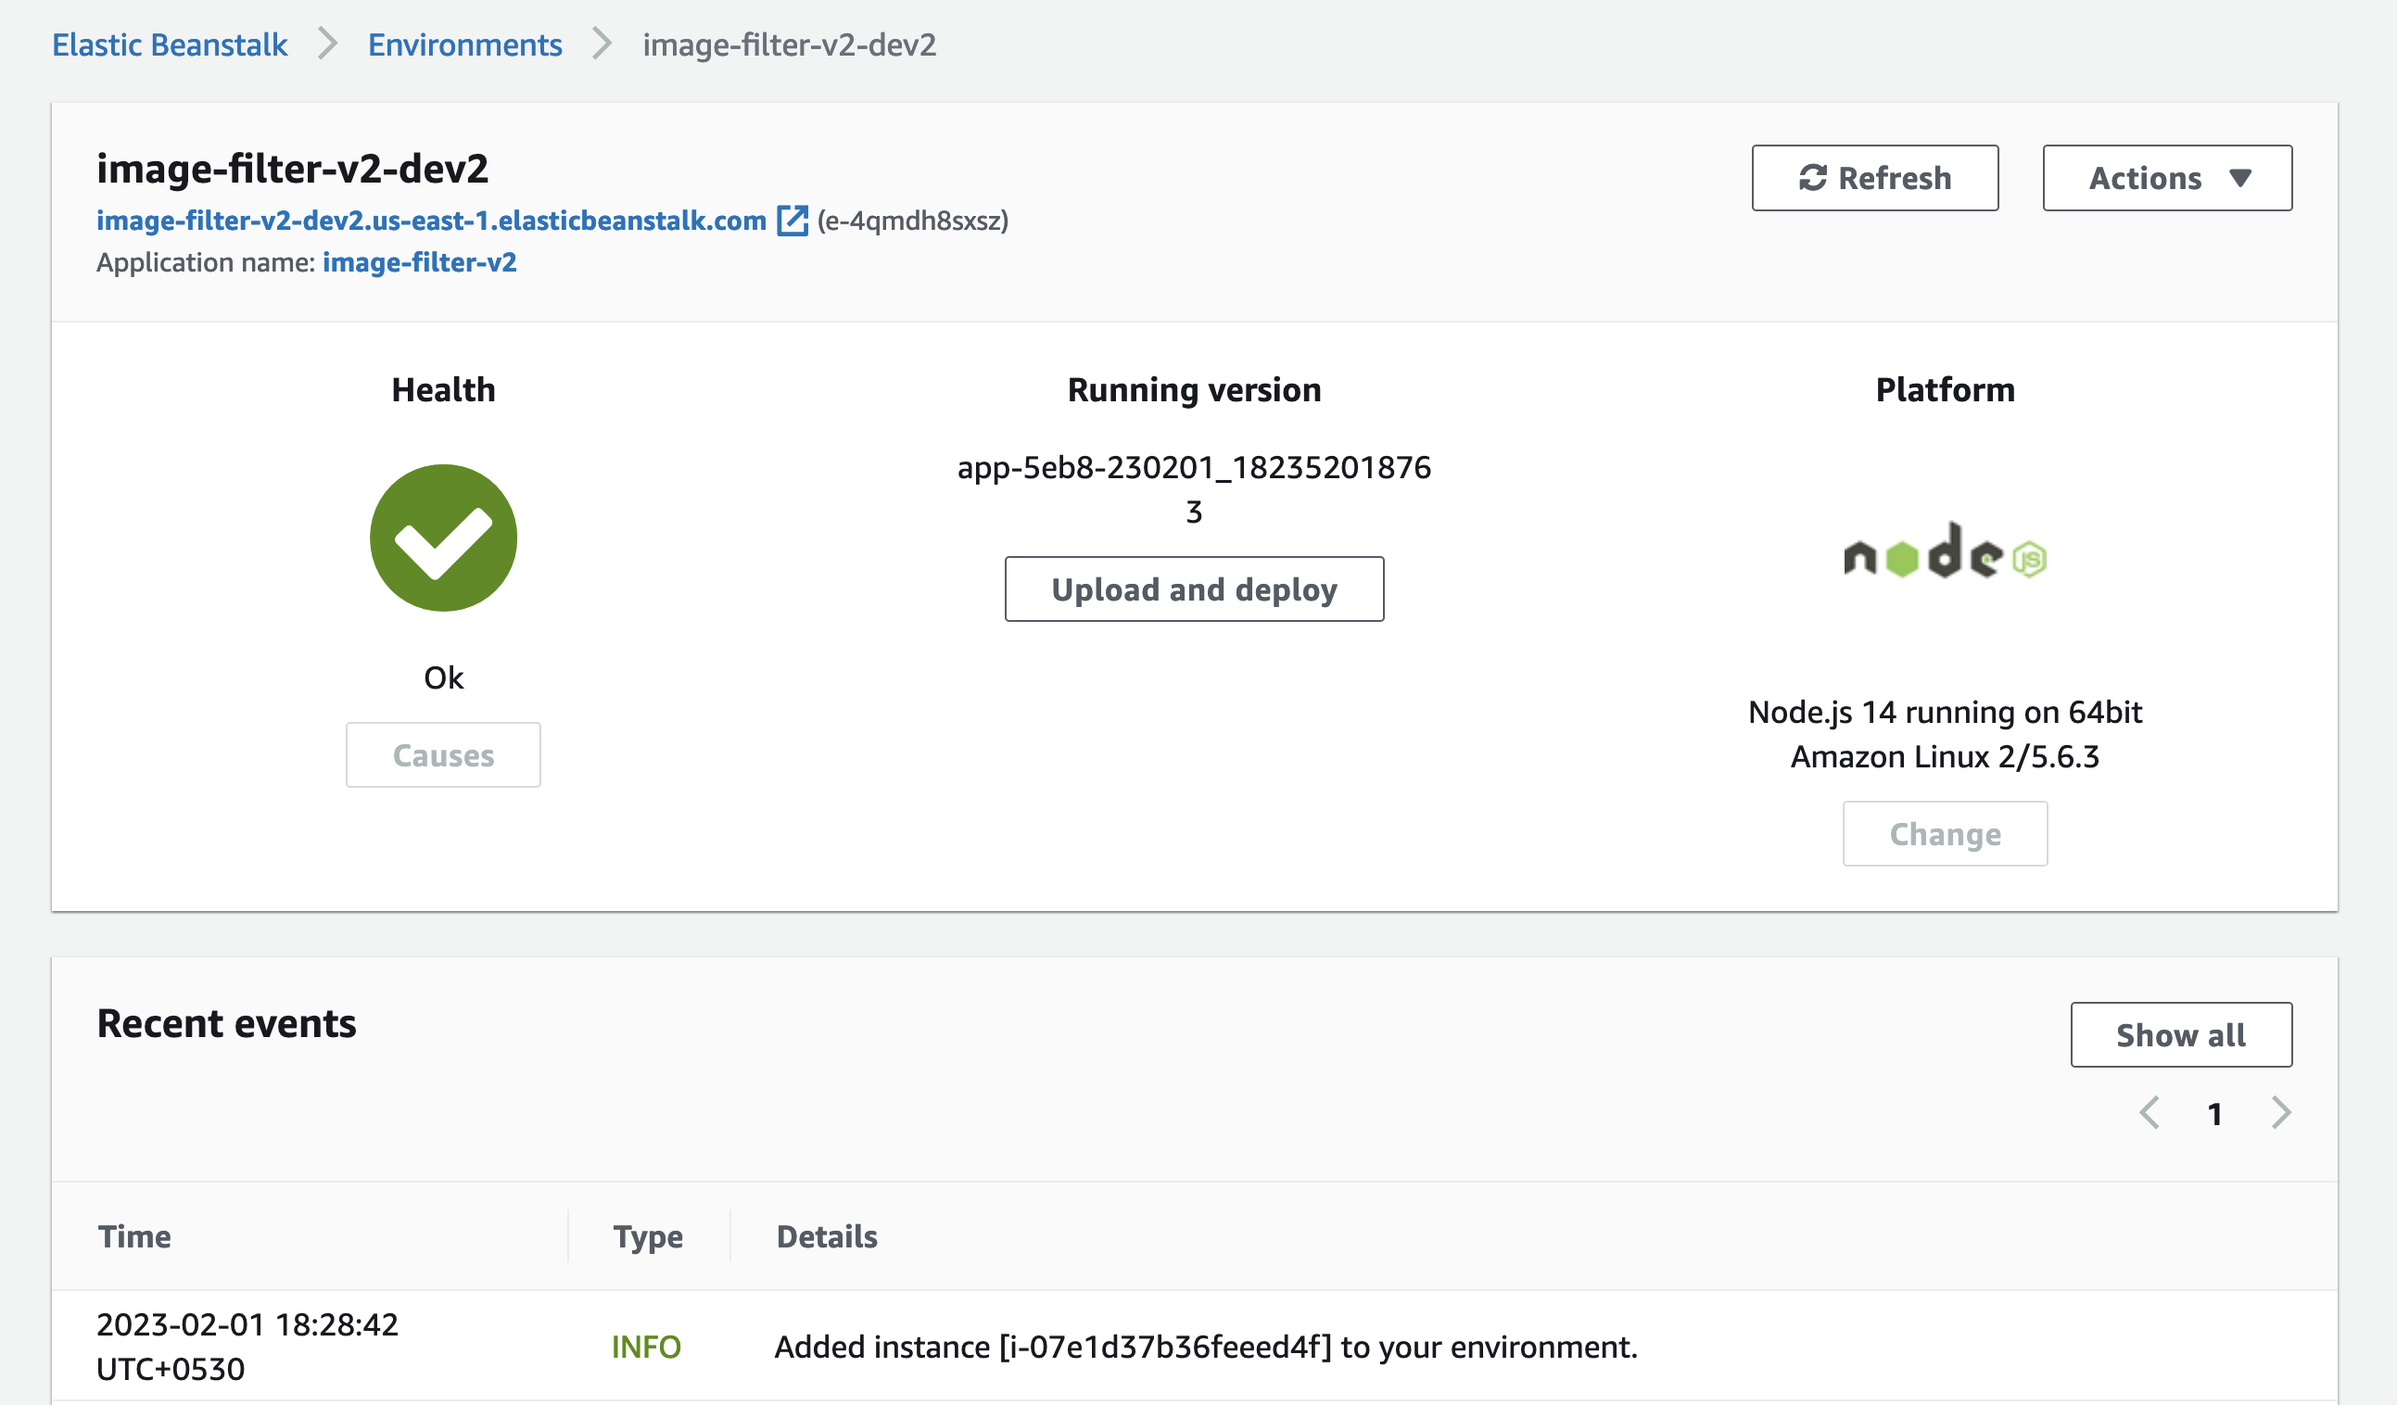
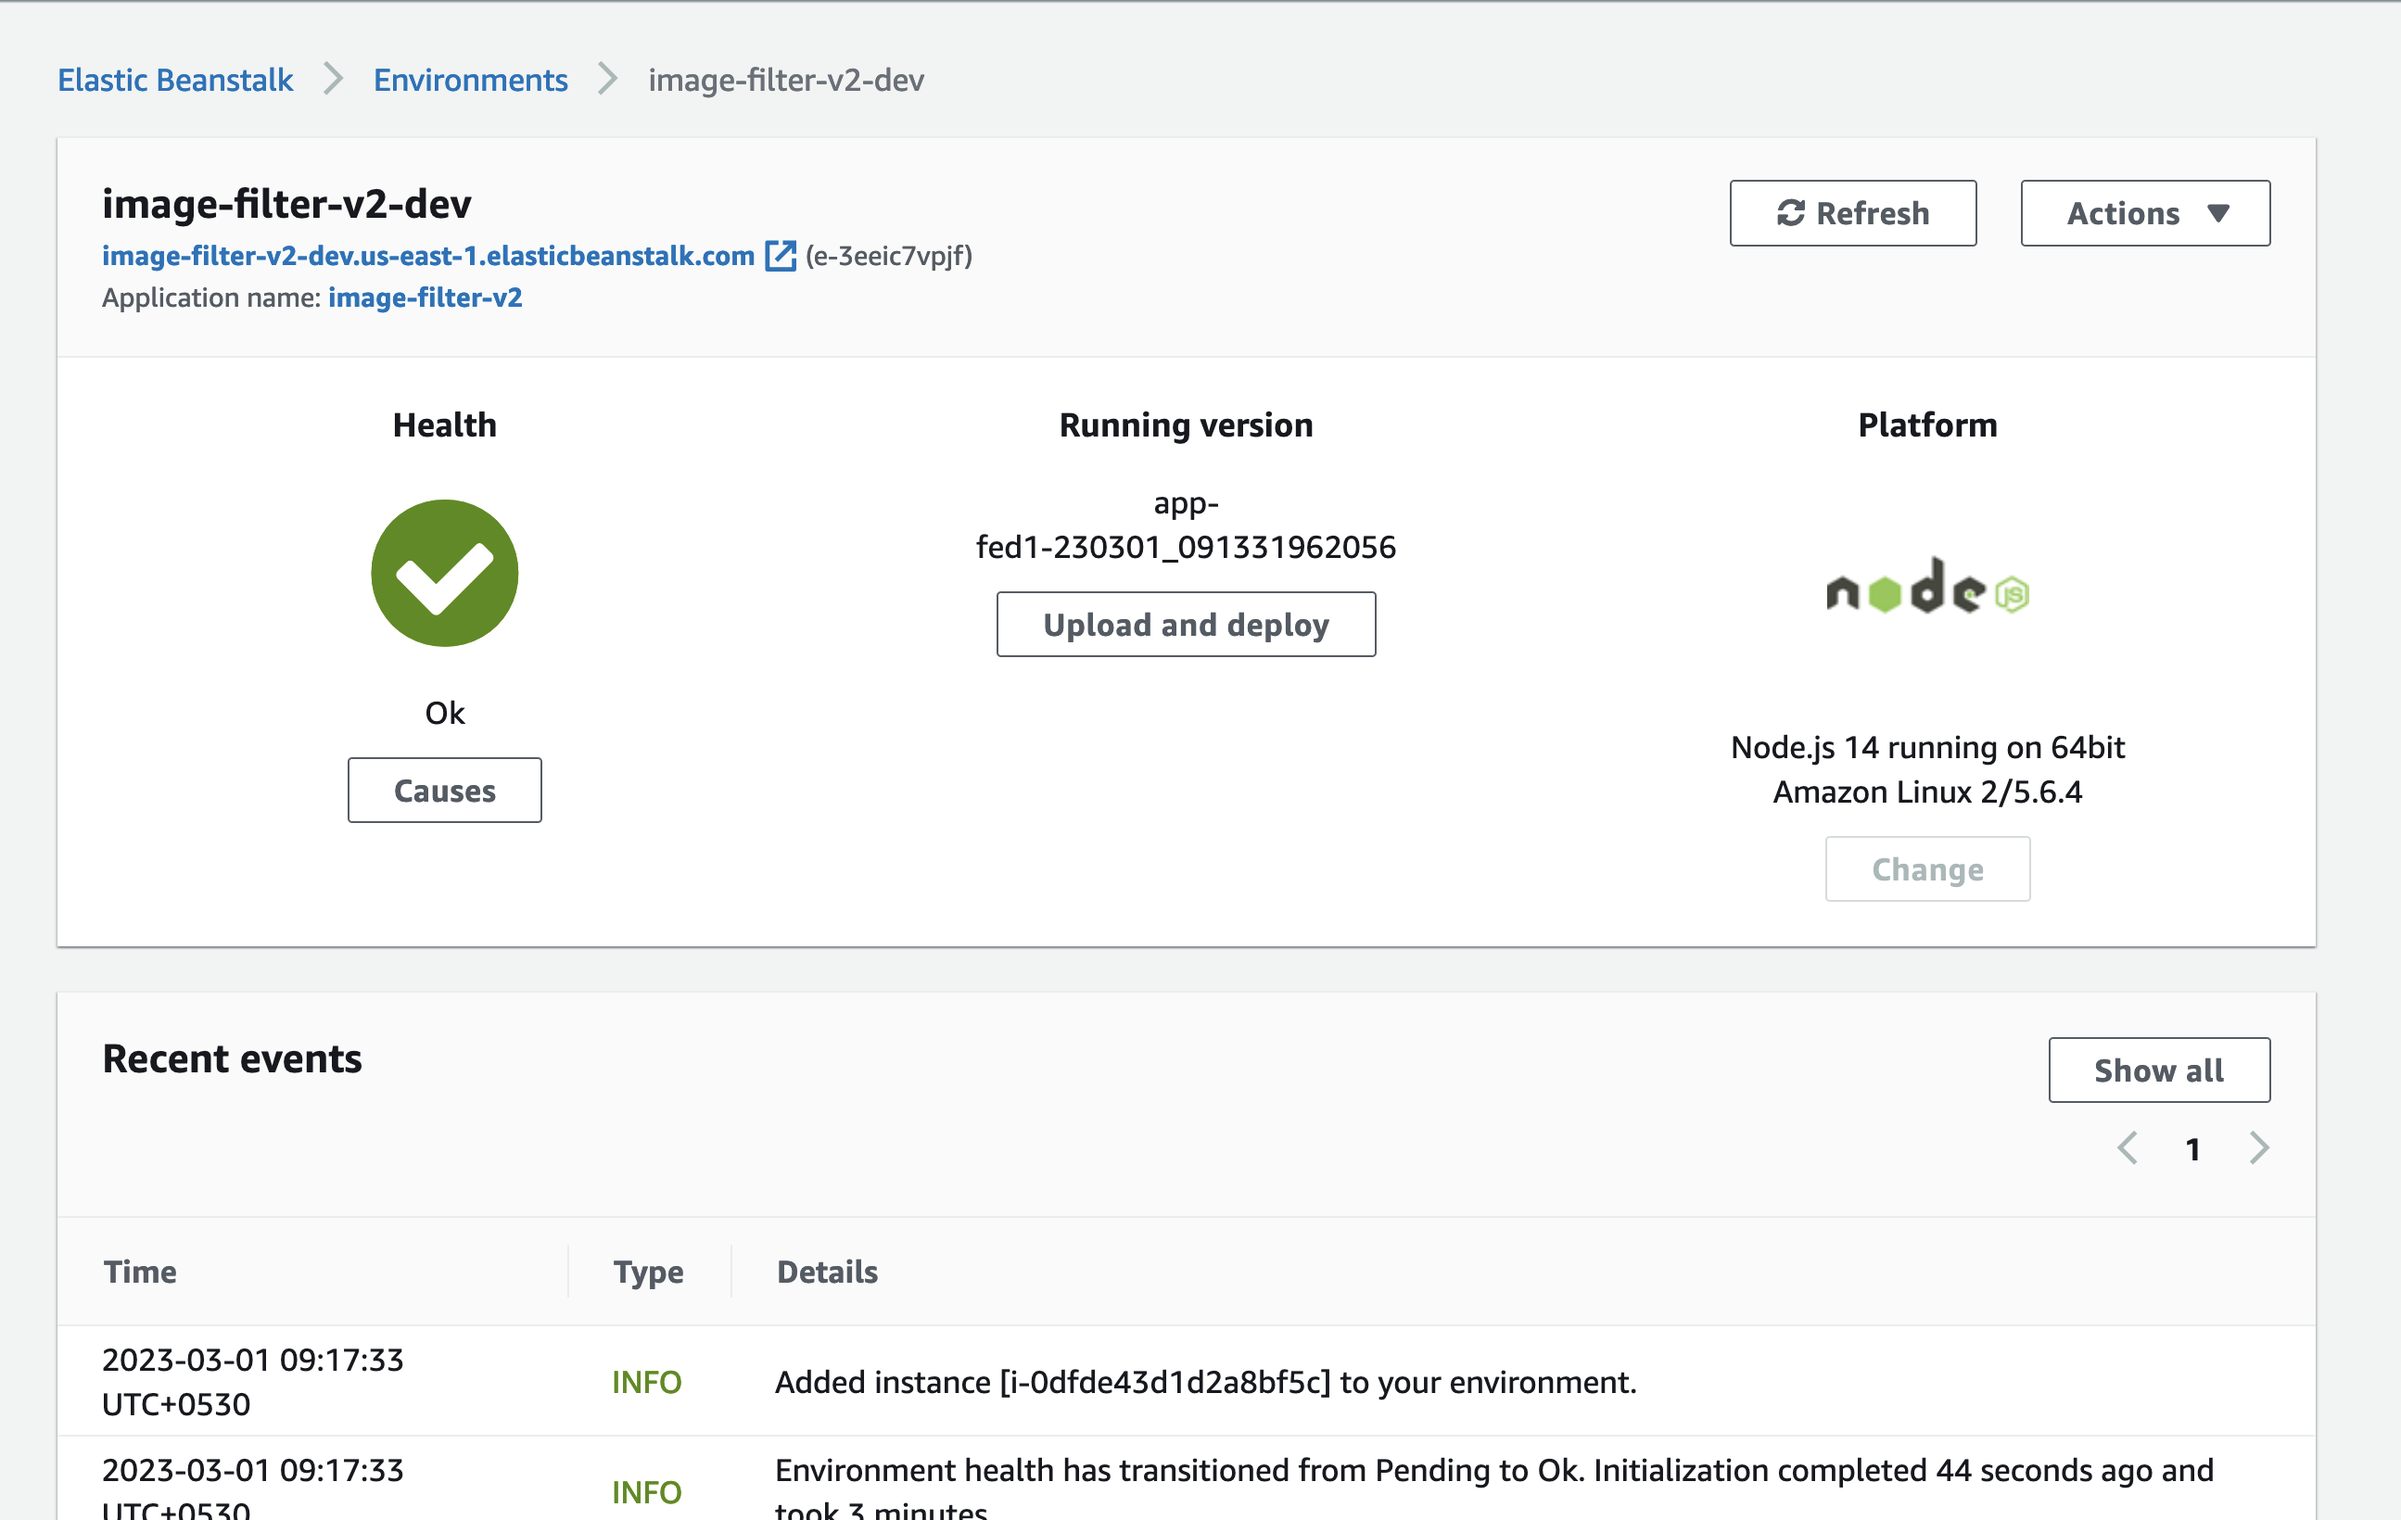
updated

diff --git a/README.md b/README.md
@@ -1,6 +1,3 @@
 # image-filter-v2
 
-
-http://image-filter-v2-dev2.us-east-1.elasticbeanstalk.com/filteredimage?image_url=https://cdn.hasselblad.com/hasselblad-com/6cb604081ef3086569319ddb5adcae66298a28c5_x1d-ii-sample-01-web.jpg
-
-
+http://image-filter-v2-dev.us-east-1.elasticbeanstalk.com/filteredimage?image_url=https://cdn.hasselblad.com/hasselblad-com/6cb604081ef3086569319ddb5adcae66298a28c5_x1d-ii-sample-01-web.jpg
